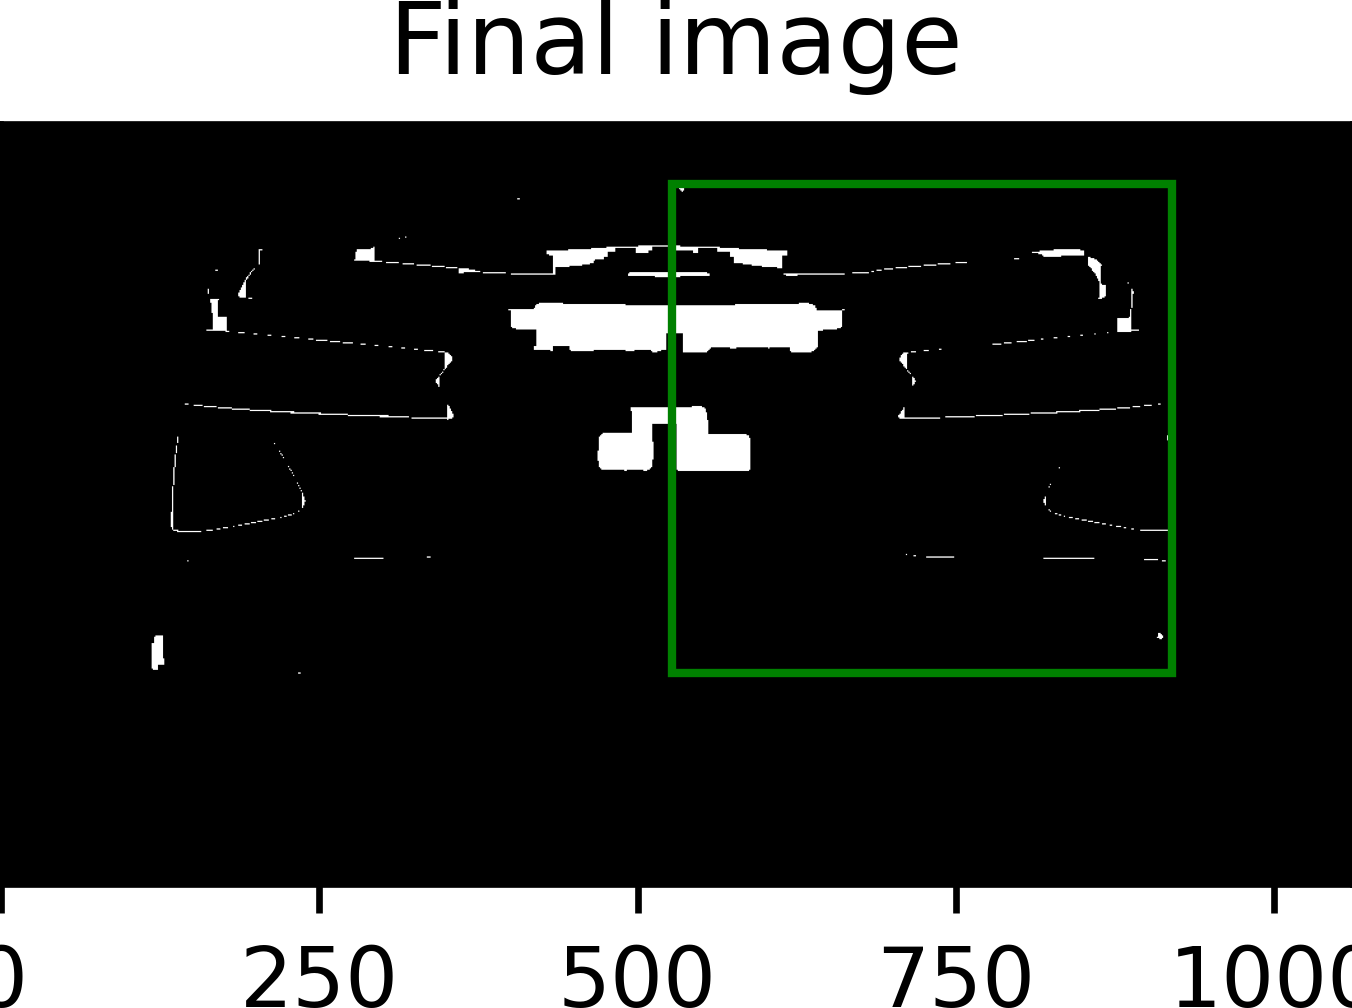
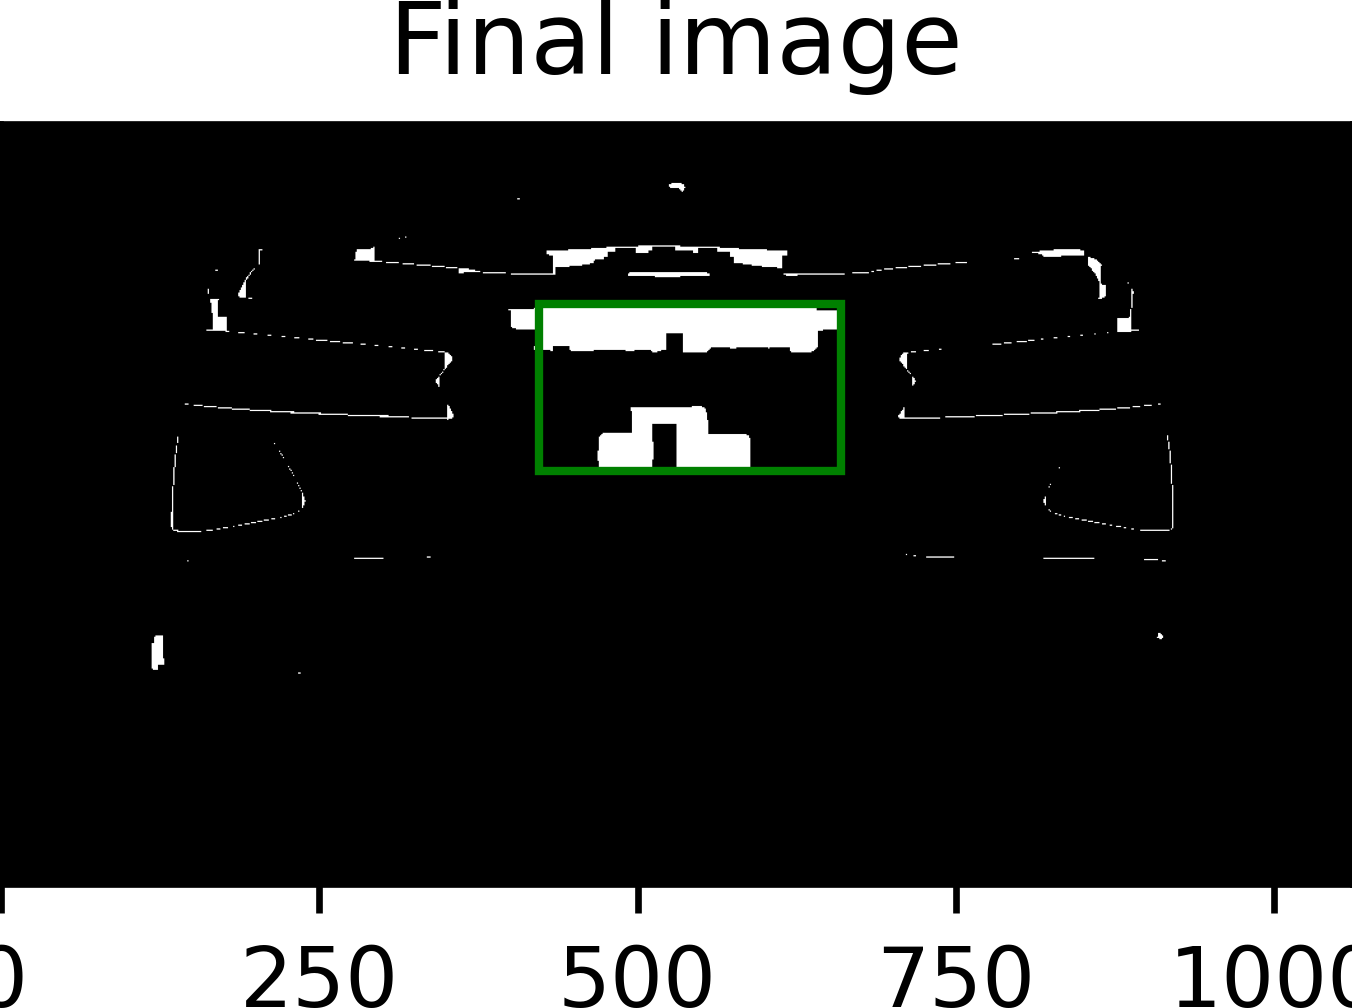
almost there w ar

diff --git a/CS373LicensePlateDetection.py b/CS373LicensePlateDetection.py
@@ -231,7 +231,7 @@ def main():
     SHOW_DEBUG_FIGURES = True
 
     # this is the default input image filename
-    input_filename = "numberplate3.png"
+    input_filename = "numberplate6.png"
 
     if command_line_arguments:
         input_filename = command_line_arguments[0]
@@ -287,9 +287,12 @@ def main():
 
     min_pixel = None
     max_pixel = [0, 0]
-    largest_component_ar = [[0, 0], [0, 0]]
 
-    for key in d.keys():
+    reversed_dict = sorted(d.items(), key=lambda x: x[1], reverse=True)
+    reversed_keys = [x[0] for x in reversed_dict]
+    print(reversed_keys)
+
+    for key in reversed_keys:
         for i in range(len(res)):
             for j in range(len(res[i])):
                 if res[i][j] == key:
@@ -304,16 +307,9 @@ def main():
         aspect_ratio = bbox_width / bbox_height
     # (470, 225) and (590, 270)
         if 1.5 <= aspect_ratio <= 5:
-            largest_component_ar[0][0] = max(min_pixel[0], largest_component_ar[0][0])
-            largest_component_ar[0][1] = max(min_pixel[1], largest_component_ar[0][1])
+            break
 
-            largest_component_ar[1][0] = max(max_pixel[0], largest_component_ar[1][0])
-            largest_component_ar[1][1] = max(max_pixel[1], largest_component_ar[1][1])
-
-            # largest_component_ar[0] = max(min_pixel, largest_component_ar[0])
-            # largest_component_ar[1] = max(max_pixel, largest_component_ar[1])
     print(min_pixel, max_pixel)
-    print(largest_component_ar)
 
 
     # with open('./output.txt', 'w') as f:
